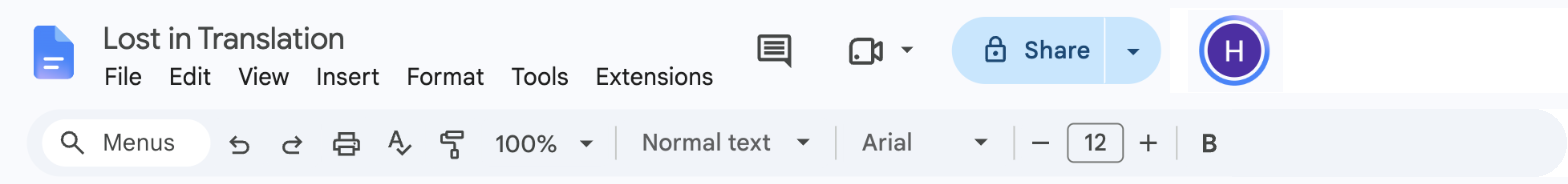
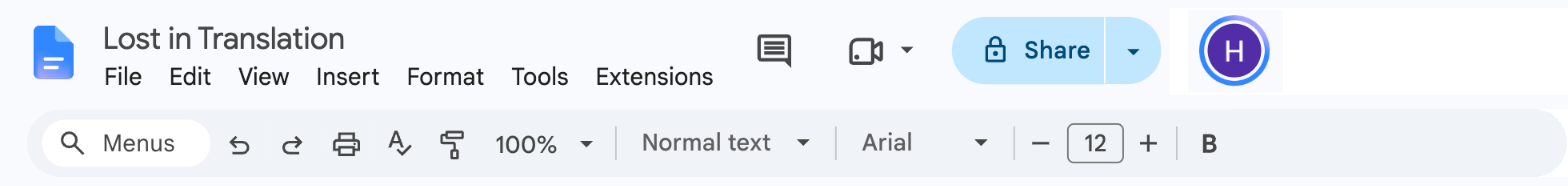
Accueil : bandeau Docs complet, barre d'outils entière
Claude-Session: https://claude.ai/code/session_01P8W3LLeLe5QXHWTDcbhje4

diff --git a/index.html b/index.html
@@ -1396,7 +1396,7 @@
 
         <div class="hero-tryit">
           <div class="gdoc" aria-label="A document, the way Google Docs shows it">
-            <img class="gdoc-chrome" src="/docs-chrome.png" alt="" width="1568" height="155">
+            <img class="gdoc-chrome" src="/docs-chrome.png?v=3" alt="" width="1568" height="186">
             <div class="gdoc-canvas">
               <div class="tryit-side">
                 <div class="tryit-pill" id="tryit-pill"><span class="tryit-dot"></span><span><span class="tryit-line">You're in <b>dialogue</b>.</span><span class="tryit-tip"></span></span></div>
